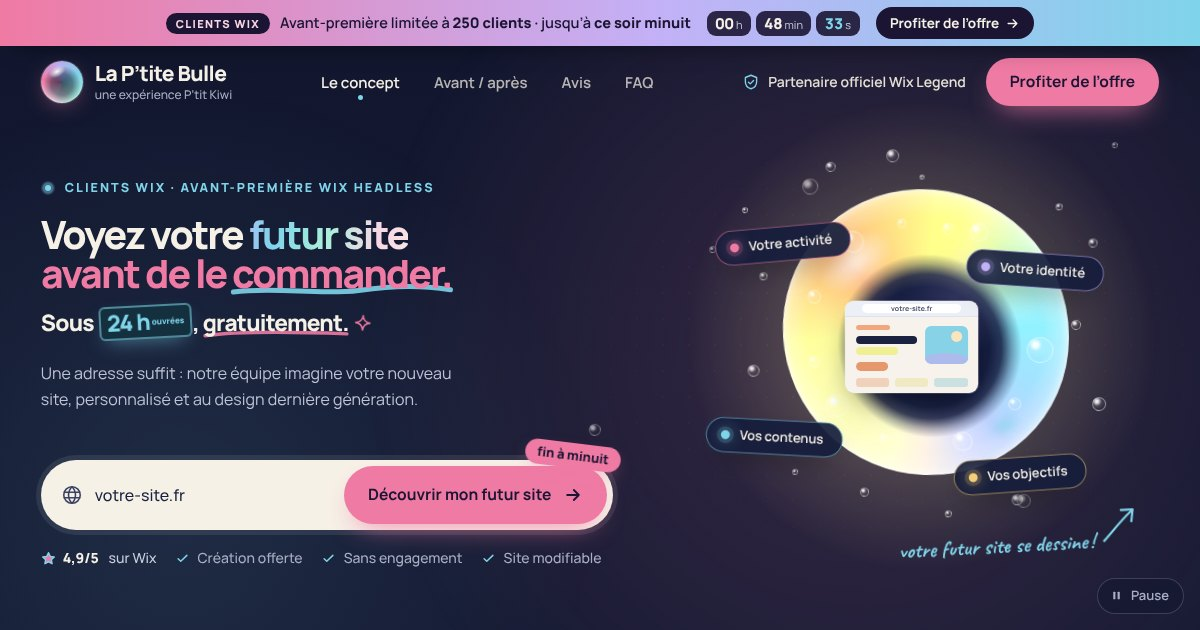
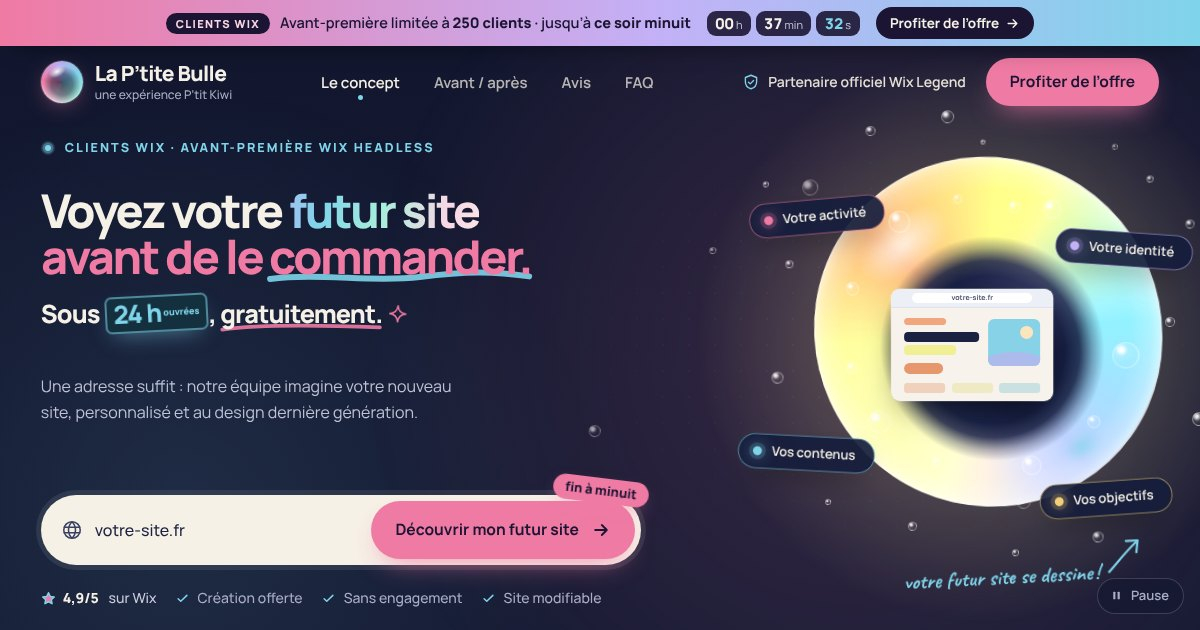
Hero sur toute la hauteur

diff --git a/styles.css b/styles.css
@@ -848,6 +848,27 @@ section[id],#lp-field,#fin-field{scroll-margin-top:calc(var(--bar-h) + 16px)}
 @media (min-width:1900px){.motion-toggle{left:auto;right:max(16px,calc((100% - 1680px) / 2 + 48px))}}
 @media (max-height:620px){.promise{margin-top:0}.field-block{margin-top:0}}
 
+
+/* v18 : la hero occupe toute la hauteur de l'écran */
+@media (min-width:1080px){
+  :root .hero .hero-copy{gap:0;max-width:700px;container-type:inline-size}
+  :root .hero .hero-visual{flex:0 1 auto}
+  :root .hero .hero-title{font-size:clamp(38px,min(9.2cqw,7.4vh),90px);margin-top:clamp(14px,5vh,72px)}
+  :root .hero .promise{font-size:clamp(21px,min(2.2vw,4vh),46px);margin-top:clamp(10px,2.4vh,32px)}
+  :root .hero .lead{font-size:clamp(16px,min(1.25vw,2.3vh),21px);margin-top:clamp(16px,6.6vh,88px)}
+  :root .hero .field-block{margin-top:clamp(20px,8.8vh,120px)}
+  :root .hero .hero-extra{margin-top:clamp(14px,4vh,56px)}
+  :root .hero .stage{width:clamp(260px,min(31vw,56vh),640px)}
+}
+@media (min-width:1900px){
+  :root .hero .hero-copy{max-width:min(46vw,1000px)}
+  :root .hero .hero-title{font-size:clamp(48px,min(9.2cqw,7.4vh),96px)}
+  :root .hero .promise{font-size:clamp(26px,min(1.9vw,3.9vh),50px)}
+  :root .hero .lead{font-size:clamp(19px,1.5vh,23px);margin-top:clamp(16px,7.6vh,130px)}
+  :root .hero .field-block{margin-top:clamp(20px,10.4vh,170px)}
+  :root .hero .stage{width:clamp(260px,min(28vw,54vh),720px)}
+}
+
 @media (prefers-reduced-motion:reduce){
   html{scroll-behavior:auto}
   *,*::before,*::after{animation-duration:.001ms!important;animation-delay:0s!important;animation-iteration-count:1!important;transition-duration:.001ms!important}
